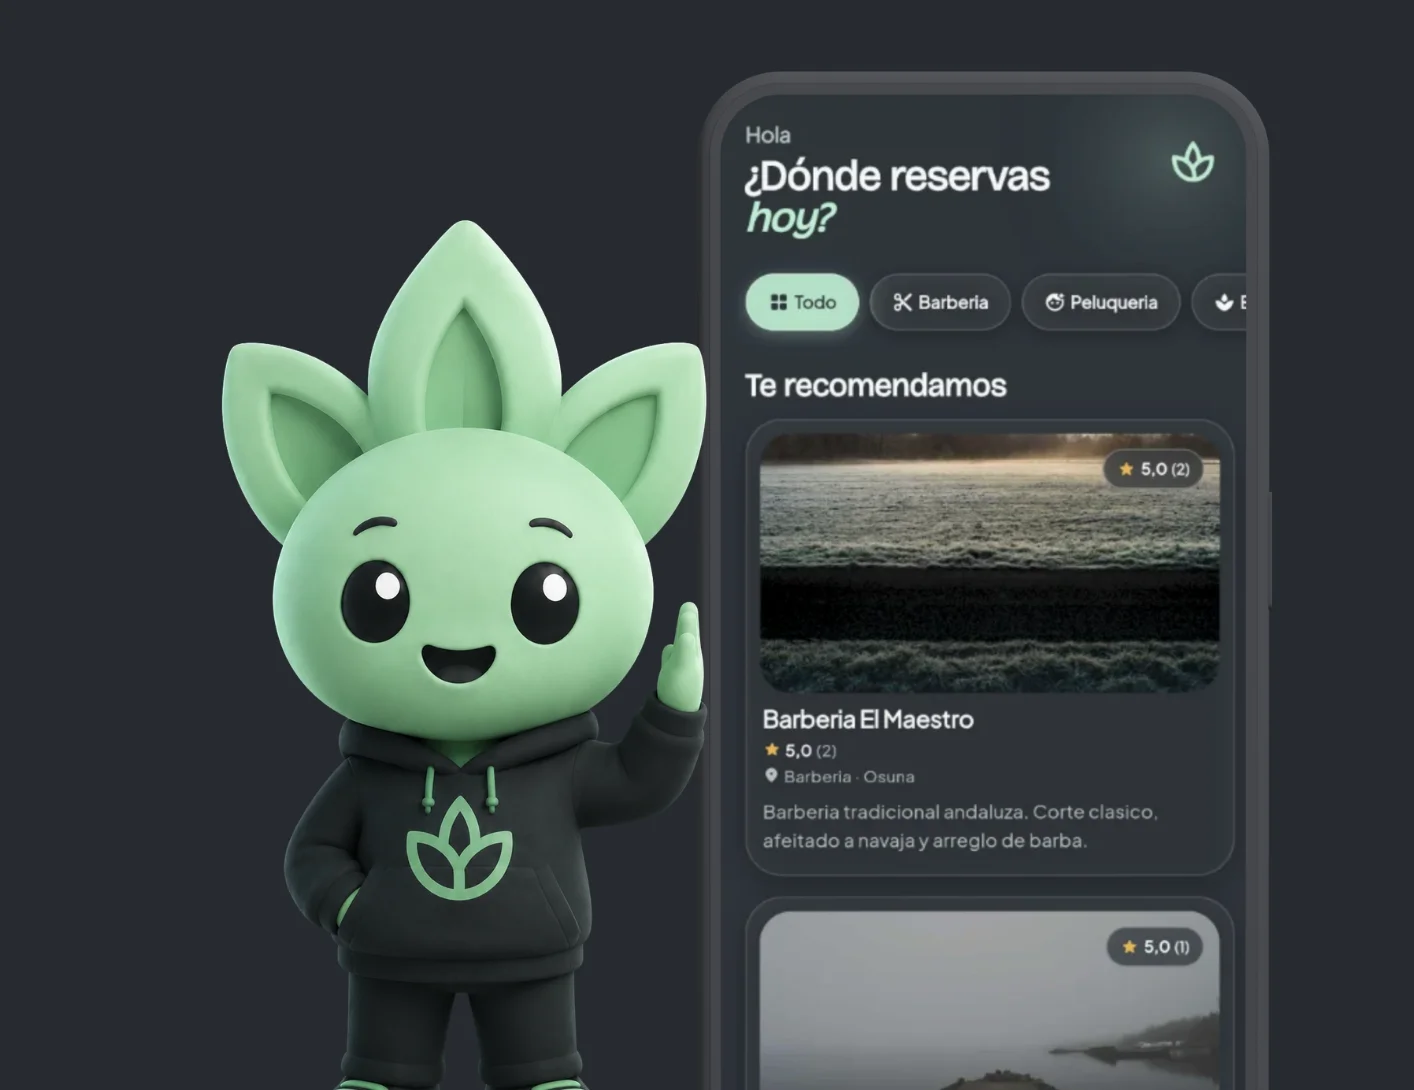
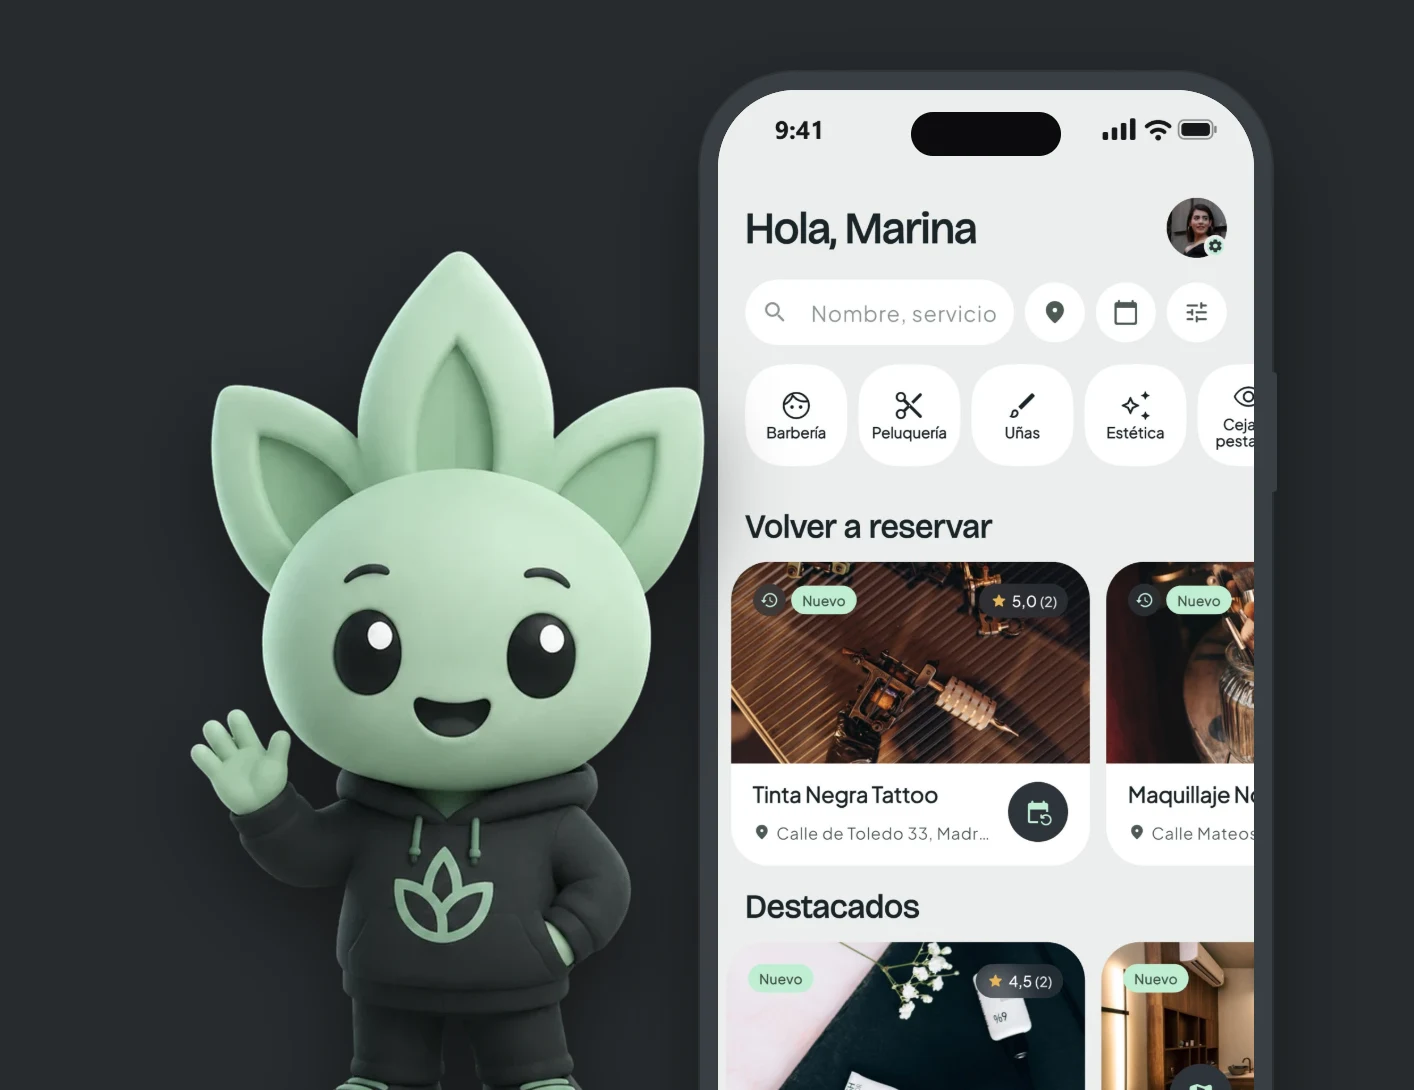
feat: show the current screens in the home app cards
The Bip + phone pictures in "Bipsy, también en tu móvil" and
"¿Tienes un negocio?" showed screens from an old build. They are redrawn
with today's screenshots (home of Bipsy, agenda of Bipsy Business), same
size, layout and backgrounds, in light and dark.

The web sizes get dated names (bipsy-*-2026-11-480/960.webp): with the
same name, browsers kept showing the cached old picture.

diff --git a/src/app/pages/home/home.component.html b/src/app/pages/home/home.component.html
@@ -583,10 +583,10 @@
         </div>
         <picture>
           <source media="(prefers-color-scheme: light)" sizes="(max-width: 1180px) 58vw, 360px"
-                  srcset="assets_web/bipsy-light-480.webp 480w, assets_web/bipsy-light-960.webp 960w" />
-          <img src="assets_web/bipsy-dark-480.webp" alt="" class="app-card__img" width="1414" height="1090" loading="lazy" decoding="async"
+                  srcset="assets_web/bipsy-light-2026-11-480.webp 480w, assets_web/bipsy-light-2026-11-960.webp 960w" />
+          <img src="assets_web/bipsy-dark-2026-11-480.webp" alt="" class="app-card__img" width="1414" height="1090" loading="lazy" decoding="async"
                sizes="(max-width: 1180px) 58vw, 360px"
-               srcset="assets_web/bipsy-dark-480.webp 480w, assets_web/bipsy-dark-960.webp 960w" />
+               srcset="assets_web/bipsy-dark-2026-11-480.webp 480w, assets_web/bipsy-dark-2026-11-960.webp 960w" />
         </picture>
       </article>
 
@@ -606,10 +606,10 @@
         </div>
         <picture>
           <source media="(prefers-color-scheme: light)" sizes="(max-width: 1180px) 58vw, 360px"
-                  srcset="assets_web/bipsy-business-light-480.webp 480w, assets_web/bipsy-business-light-960.webp 960w" />
-          <img src="assets_web/bipsy-business-dark-480.webp" alt="" class="app-card__img" width="1414" height="962" loading="lazy" decoding="async"
+                  srcset="assets_web/bipsy-business-light-2026-11-480.webp 480w, assets_web/bipsy-business-light-2026-11-960.webp 960w" />
+          <img src="assets_web/bipsy-business-dark-2026-11-480.webp" alt="" class="app-card__img" width="1414" height="962" loading="lazy" decoding="async"
                sizes="(max-width: 1180px) 58vw, 360px"
-               srcset="assets_web/bipsy-business-dark-480.webp 480w, assets_web/bipsy-business-dark-960.webp 960w" />
+               srcset="assets_web/bipsy-business-dark-2026-11-480.webp 480w, assets_web/bipsy-business-dark-2026-11-960.webp 960w" />
         </picture>
       </article>
     </section>
